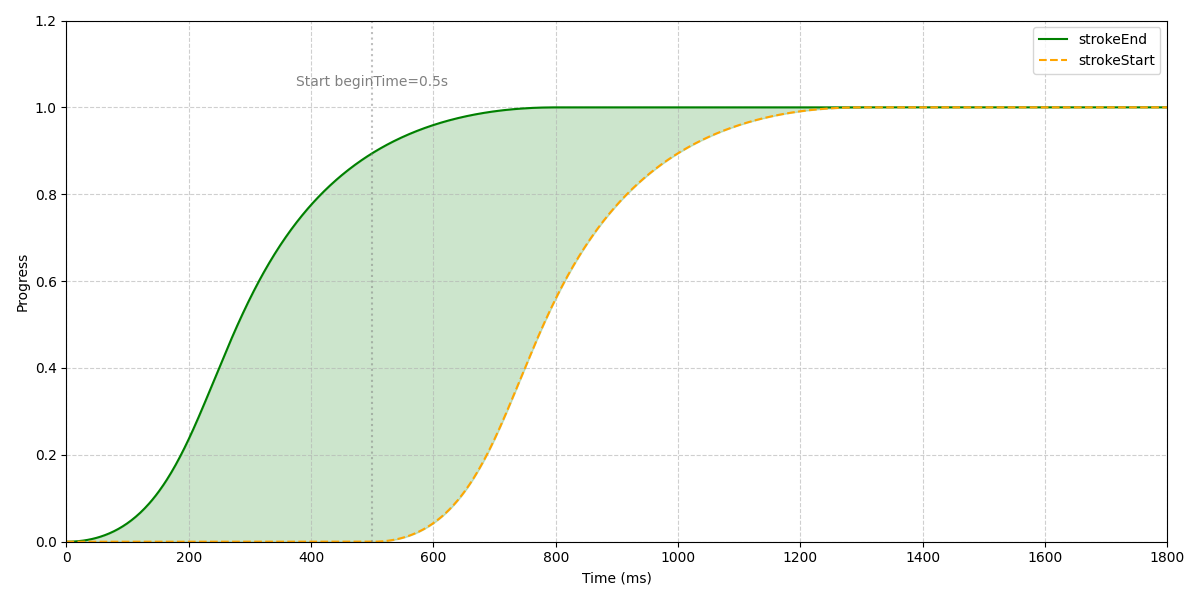
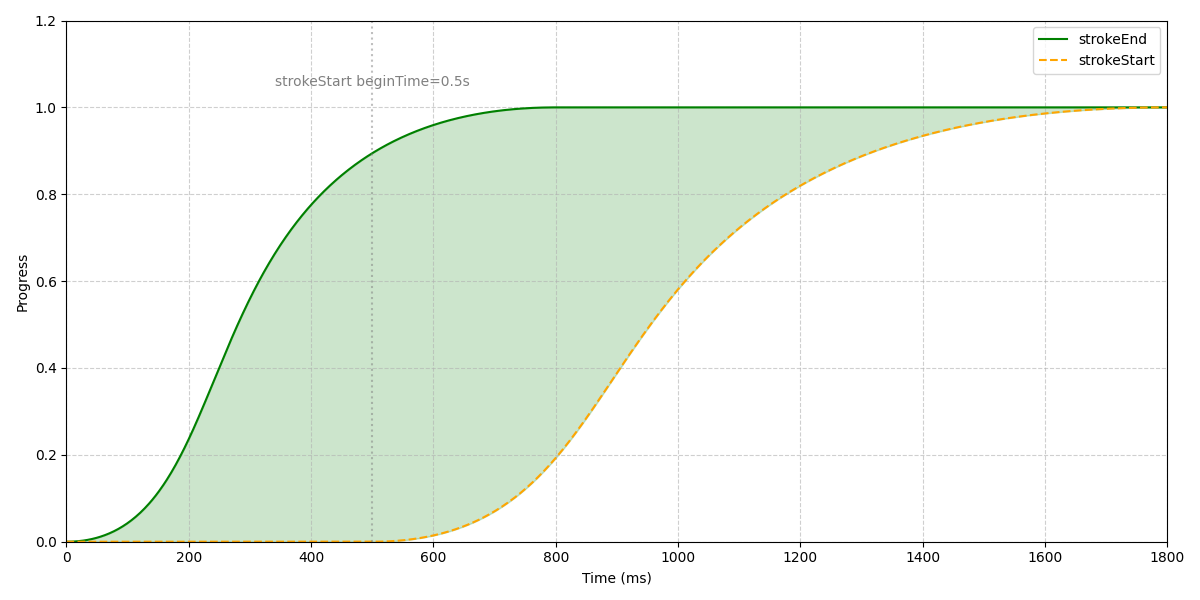
fix: 图表纠错

Changed region(s): [[0.3392, 0.18, 0.925, 0.9], [0.2158, 0.12, 0.4008, 0.15]]

diff --git a/gen_circle_progress_figure.py b/gen_circle_progress_figure.py
@@ -45,8 +45,8 @@ for t in time_ms / 1000:  # 秒
     # strokeStart 从 beginTime 开始，持续 durationStart
     if t < beginTime:
         progress_start = 0
-    elif t < durationStart:
-        norm_t = (t - beginTime) / (durationStart - beginTime)
+    elif t < beginTime + durationStart:
+        norm_t = (t - beginTime) / durationStart
         progress_start = cubic_bezier_y_for_x(norm_t, p1x, p1y, p2x, p2y)
     else:
         progress_start = 1
@@ -60,7 +60,7 @@ ax.fill_between(time_ms, lead, trail, where=(np.array(lead) > np.array(trail)),
                 color="green", alpha=0.2)
 
 ax.axvline(beginTime*1000, color='gray', linestyle=':', alpha=0.5)
-ax.text(beginTime*1000, 1.05, f'Start beginTime={beginTime}s', ha='center', color='gray')
+ax.text(beginTime*1000, 1.05, f'strokeStart beginTime={beginTime}s', ha='center', color='gray')
 ax.set(xlabel="Time (ms)", ylabel="Progress", ylim=(0,1.2), xlim=(0, totalDuration*1000))
 ax.legend()
 ax.grid(True, linestyle='--', alpha=0.6)
